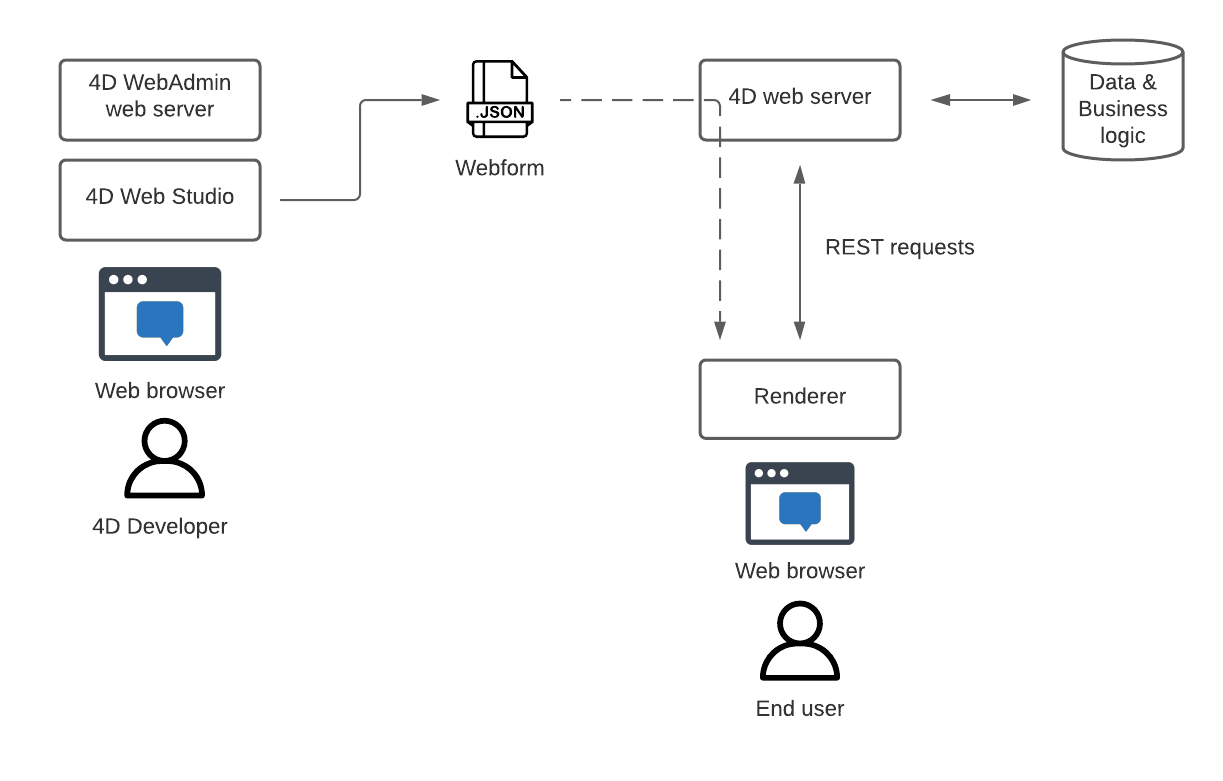
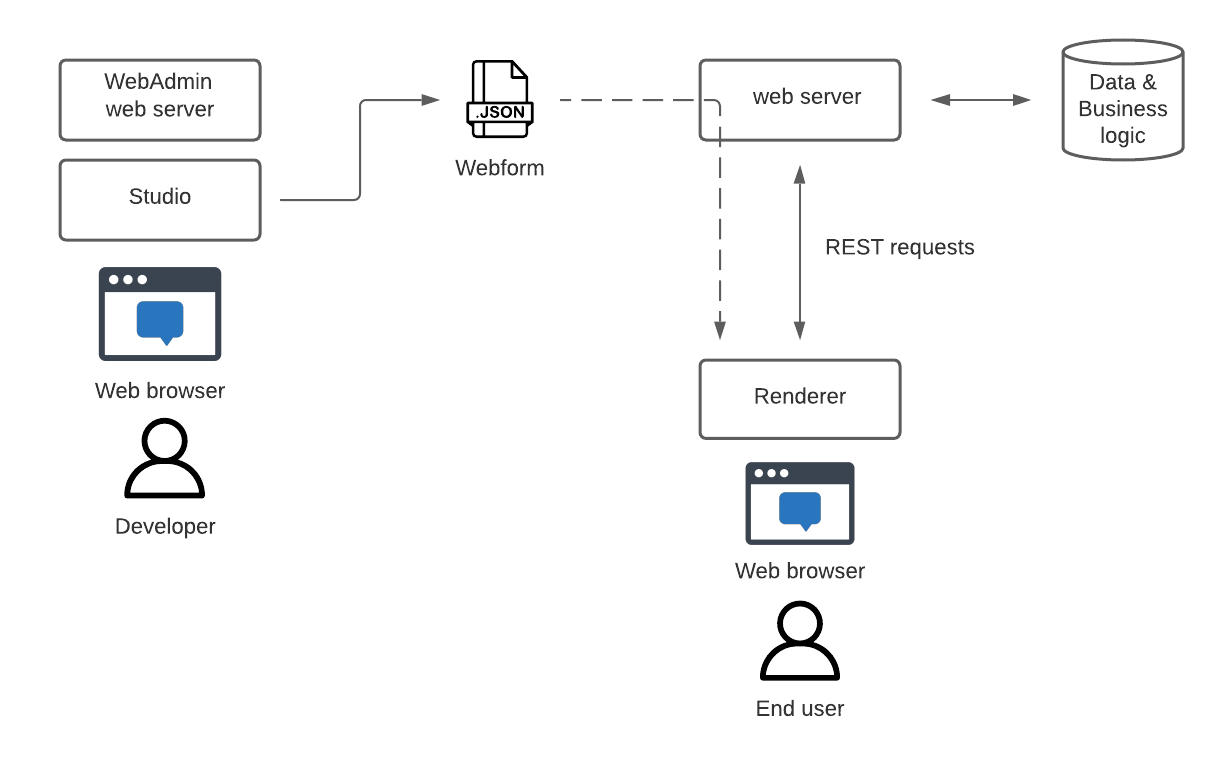
upgraded

diff --git a/docs/studio/rendering.md b/docs/studio/rendering.md
@@ -7,50 +7,39 @@ A webform describes your application's look and behavior. After or while you des
 
 ## Overview
 
-4D Web Studio does not generate HTML code directly. When you drop components on the canvas, when you map datasources to components, or when you configure an event, 4D Web Studio places your work in a JSON file. This JSON file, the webform, cannot directly be opened in a web browser. It is “rendered” either when you preview it in the webstudio, or when you choose to render it in a dedicated browser tab.
+Qodly Studio does not generate HTML code directly. When you drop components on the canvas, when you map datasources to components, or when you configure an event, Qodly Studio places your work in a JSON file. This JSON file, the webform, cannot directly be opened in a web browser. It is "rendered" either when you preview it in the Studio, or when you choose to render it in a dedicated browser tab.
 
-At runtime, webforms are generated and interpreted by a built-in renderer engine.
+At runtime, webforms are generated and interpreted by the built-in renderer engine.
 
-Each webform has its own URL on the [4D web server](https://developer.4d.com/docs/en/WebServer/webServer.html).
+Each webform has its own URL on the Qodly Web server.
 
 The following diagram describes how data flows to and from the studio:
 
 ![workflow-diagram](img/workflow.png)
 
-* The 4D WebAdmin web server provides a secured web access to 4D Web Studio and allows previewing webforms inside the studio.
-* The main 4D web server is [exposed as REST server](https://developer.4d.com/docs/en/REST/configuration.html#starting-the-rest-server), and the renderer communicates with it using [REST requests](https://developer.4d.com/docs/en/REST/gettingStarted.html).
+* The WebAdmin web server provides a secured web access to Qodly Studio and allows previewing webforms inside the studio.
+* The Qodly web server is exposed as REST server and the renderer communicates with it using REST requests.
 * The webforms are deployed with the application, and end-users render them in their browsers. 
 
 
 ## How to render a webform
 
-Webforms can be rendered from the 4D Web Studio IDE, or directly from a browser window. 
-
-### From the 4D Web Studio IDE
-
-To open a browser tab and render a webform, click the **Render** button (![render-button](img/render-button.png)).
-
-A tab will open at `IP:port/$lib/renderer/?w=WebFormName`.
-
-:::note
-
-The button is displayed only when the [configuration options](#configuration) are activated.
-
-:::
-
-### From a browser window
-
-Webforms can be rendered directly from a browser window, by typing the following address:
-
-`IP:port/$lib/renderer/?w=WebFormName`
+Webforms can be rendered in the Qodly Studio IDE or in a browser window. Note that the database resource access control will or will not be applied to the rendered page(s) depending on the renderer.   
 
 
-## Exposed and non-exposed assets
+### In the Qodly Studio IDE
 
-4D Web Studio runs through the [4D WebAdmin web server](https://developer.4d.com/docs/en/Admin/webAdmin.html). When you use 4D Web Studio as a developer, even when you preview a webform in the studio, you’re using the 4D WebAdmin web server. This allows you to see dataclasses, functions and attributes that are not exposed as REST resources for example (they are greyed out).
+The preview button ![preview-button](img/preview-ide.png) of the webform editor allows you to render the current page directly in the webform editor window. 
 
-However, webform rendering happens outside 4D Web Studio, and is served by the [standard 4D web server](https://developer.4d.com/docs/en/WebServer/webServer.html). In this situation, your web application cannot access assets that are not exposed as REST resources.
+In this case, the webform is rendered by the WebAdmin web server. This allows you to see all dataclasses, functions and attributes, even if they are not exposed as REST resources (they are greyed out), or even if permission actions are configured.
 
-See [Exposed vs non-exposed functions](https://developer.4d.com/docs/en/ORDA/ordaClasses.html#exposed-vs-non-exposed-functions) and [Exposing tables](https://developer.4d.com/docs/en/REST/configuration.html#exposing-tables) for more information on how to expose assets.
 
+### In a browser window
+
+You can render the current webform or the whole website in a browser window:
+
+- current webform: in the webform editor, click on the Render in a new tab button (![preview-button-tab](img/preview-tab.png). The webform is displayed in a browser window tab.
+- whole website: in the Qodly toolbar, click on the **Preview** button (![preview-button-tab](img/preview-main.png). The home page [defined in the Settings](settings.md/#application) is then displayed in a browser window tab. 
+
+In both cases, the webform is rendered by Qodly web renderer engine. The renderer engine **applies the REST resource restrictions and permission actions** that might have been configured defined in your Qodly project. This means that only exposed resources are rendered in the browser. 
 
